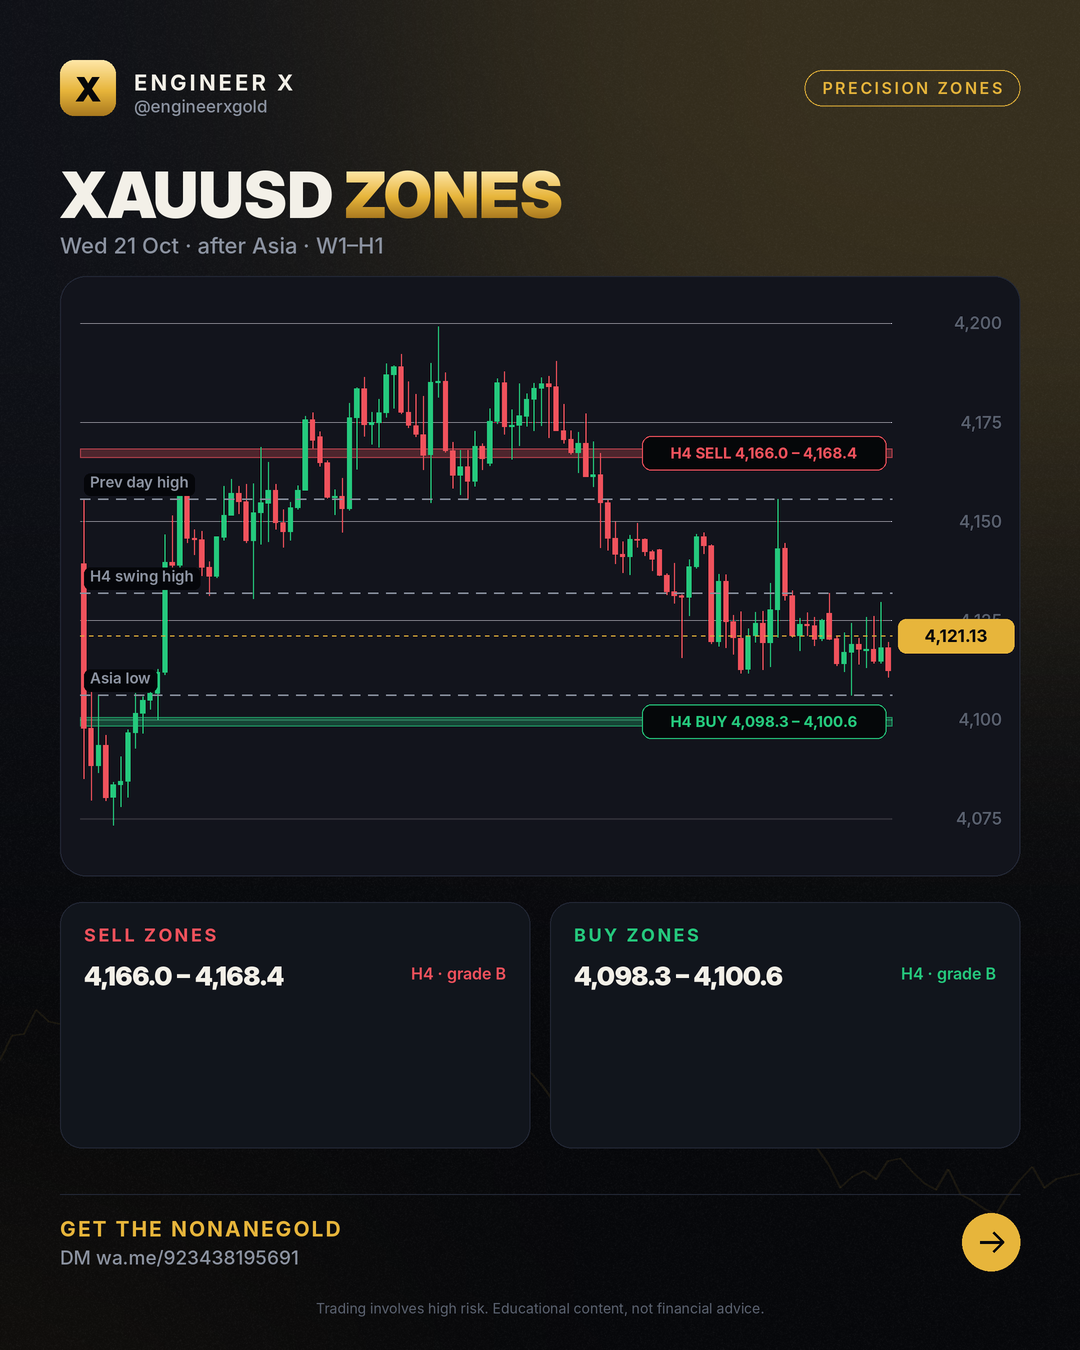
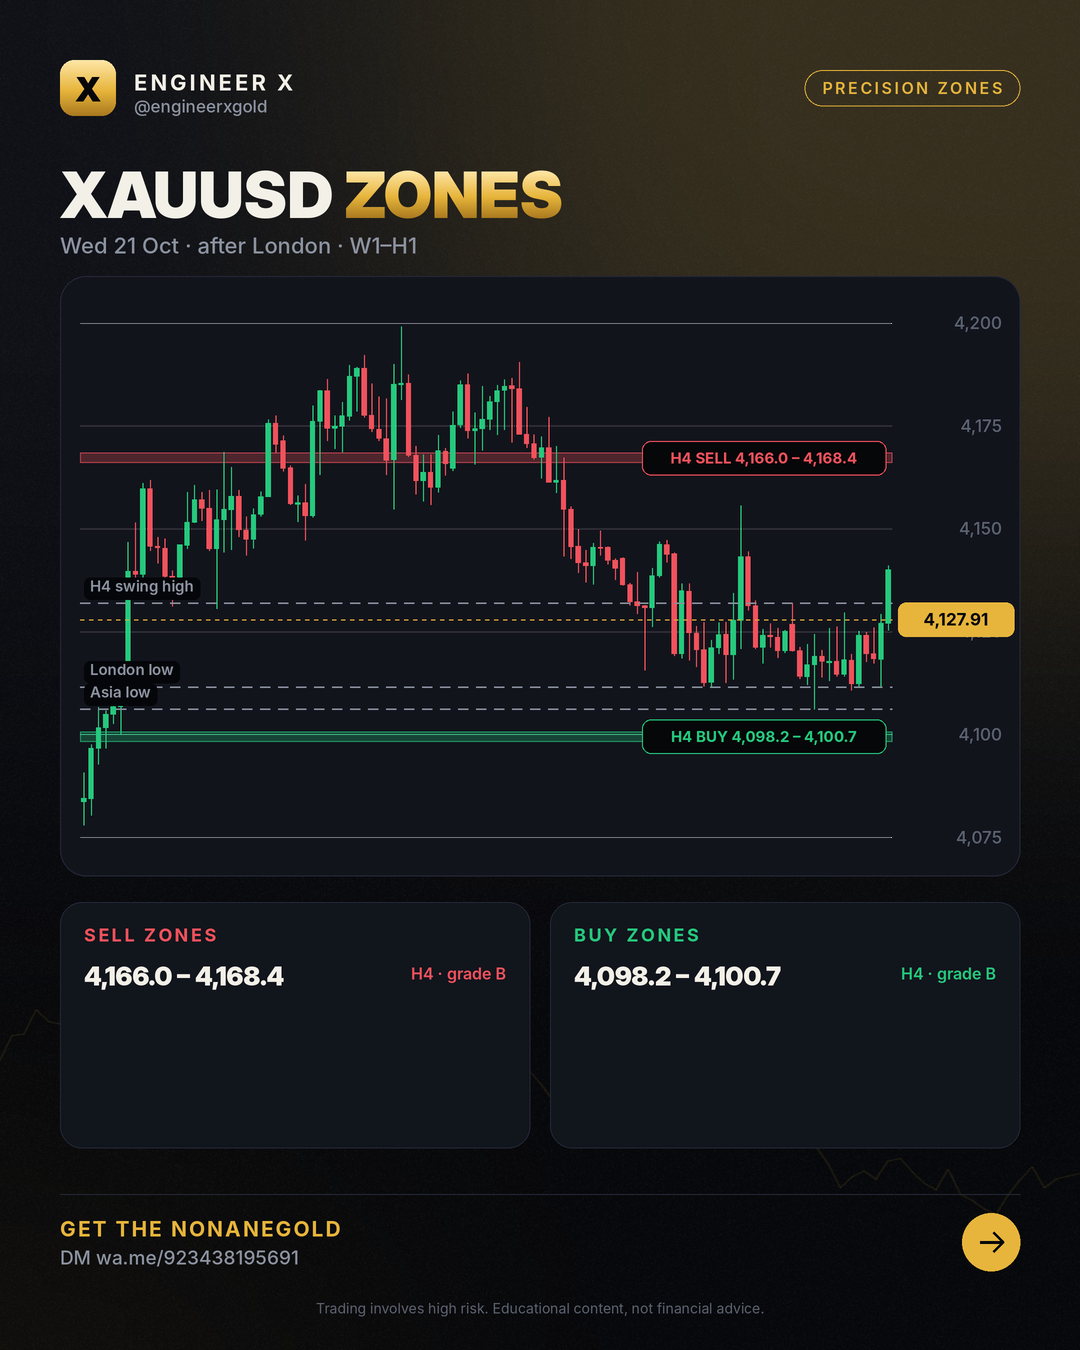
zones 2026-10-21 Wed 21 Oct · after London · W1–H1

diff --git a/zones/2026-10-21/index.html b/zones/2026-10-21/index.html
@@ -4,7 +4,7 @@
 <meta charset="utf-8">
 <meta name="viewport" content="width=device-width,initial-scale=1">
 <title>Gold Forecast – 21 Oct 2026 (W1–H1)</title>
-<meta name="description" content="XAUUSD buy and sell zones for 2026-10-21: tested W1, D1, H4 and H1 zones with invalidation levels, updated after the Asian, London and New York sessions. Price 4,121.13.">
+<meta name="description" content="XAUUSD buy and sell zones for 2026-10-21: tested W1, D1, H4 and H1 zones with invalidation levels, updated after the Asian, London and New York sessions. Price 4,127.91.">
 <meta name="robots" content="index,follow,max-image-preview:large,max-snippet:-1,max-video-preview:-1">
 <meta name="author" content="Engr. M Ahmad Mehmood">
 <link rel="canonical" href="https://engineerxgold.github.io/zones/2026-10-21/">
@@ -12,7 +12,7 @@
 <link rel="apple-touch-icon" href="../../img/logo.png">
 <meta property="og:site_name" content="Engineer X">
 <meta property="og:title" content="Gold Forecast – 21 Oct 2026 (W1–H1)">
-<meta property="og:description" content="XAUUSD buy and sell zones for 2026-10-21: tested W1, D1, H4 and H1 zones with invalidation levels, updated after the Asian, London and New York sessions. Price 4,121.13.">
+<meta property="og:description" content="XAUUSD buy and sell zones for 2026-10-21: tested W1, D1, H4 and H1 zones with invalidation levels, updated after the Asian, London and New York sessions. Price 4,127.91.">
 <meta property="og:type" content="article">
 <meta property="og:url" content="https://engineerxgold.github.io/zones/2026-10-21/">
 <meta property="og:image" content="https://engineerxgold.github.io/zones/img/2026-10-21.png">
@@ -22,7 +22,7 @@
 <meta property="og:locale" content="en_US">
 <meta name="twitter:card" content="summary_large_image">
 <meta name="twitter:title" content="Gold Forecast – 21 Oct 2026 (W1–H1)">
-<meta name="twitter:description" content="XAUUSD buy and sell zones for 2026-10-21: tested W1, D1, H4 and H1 zones with invalidation levels, updated after the Asian, London and New York sessions. Price 4,121.13.">
+<meta name="twitter:description" content="XAUUSD buy and sell zones for 2026-10-21: tested W1, D1, H4 and H1 zones with invalidation levels, updated after the Asian, London and New York sessions. Price 4,127.91.">
 <meta name="twitter:image" content="https://engineerxgold.github.io/zones/img/2026-10-21.png">
 <meta name="twitter:image:alt" content="Gold Forecast – 21 Oct 2026 (W1–H1)">
 
@@ -32,7 +32,7 @@
 <link rel="preconnect" href="https://fonts.googleapis.com">
 <link rel="preconnect" href="https://fonts.gstatic.com" crossorigin>
 <link href="https://fonts.googleapis.com/css2?family=Inter:wght@400;500;600;800;900&display=swap" rel="stylesheet">
-<script type="application/ld+json">{"@context": "https://schema.org", "@type": "Organization", "@id": "https://engineerxgold.github.io/#organization", "name": "Engineer X", "url": "https://engineerxgold.github.io/", "logo": {"@type": "ImageObject", "url": "https://engineerxgold.github.io/img/logo.png", "width": 512, "height": 512}, "sameAs": ["https://t.me/engineerxgold"]}</script><script type="application/ld+json">{"@context": "https://schema.org", "@type": "Article", "headline": "Gold Forecast – 21 Oct 2026 (W1–H1)", "datePublished": "2026-10-21T08:00:00+05:00", "dateModified": "2026-10-21T12:41:20+05:00", "author": {"@type": "Person", "@id": "https://engineerxgold.github.io/about/#author", "name": "Engr. M Ahmad Mehmood", "url": "https://engineerxgold.github.io/about/", "jobTitle": "MQL5 Expert Advisor developer and gold market analyst", "worksFor": {"@id": "https://engineerxgold.github.io/#organization"}}, "publisher": {"@id": "https://engineerxgold.github.io/#organization"}, "image": "https://engineerxgold.github.io/zones/img/2026-10-21.png", "mainEntityOfPage": "https://engineerxgold.github.io/zones/2026-10-21/"}</script>
+<script type="application/ld+json">{"@context": "https://schema.org", "@type": "Organization", "@id": "https://engineerxgold.github.io/#organization", "name": "Engineer X", "url": "https://engineerxgold.github.io/", "logo": {"@type": "ImageObject", "url": "https://engineerxgold.github.io/img/logo.png", "width": 512, "height": 512}, "sameAs": ["https://t.me/engineerxgold"]}</script><script type="application/ld+json">{"@context": "https://schema.org", "@type": "Article", "headline": "Gold Forecast – 21 Oct 2026 (W1–H1)", "datePublished": "2026-10-21T08:00:00+05:00", "dateModified": "2026-10-21T17:58:16+05:00", "author": {"@type": "Person", "@id": "https://engineerxgold.github.io/about/#author", "name": "Engr. M Ahmad Mehmood", "url": "https://engineerxgold.github.io/about/", "jobTitle": "MQL5 Expert Advisor developer and gold market analyst", "worksFor": {"@id": "https://engineerxgold.github.io/#organization"}}, "publisher": {"@id": "https://engineerxgold.github.io/#organization"}, "image": "https://engineerxgold.github.io/zones/img/2026-10-21.png", "mainEntityOfPage": "https://engineerxgold.github.io/zones/2026-10-21/"}</script>
 
 <style>
 :root{--gold:#E7B53B;--gold-hi:#FFE7A8;--bg:#07080B;--bg2:#0E1016;--panel:#12151D;--line:#232836;--green:#25C97D;--red:#F0525C;--text:#F3F0E8;--muted:#8C93A1}
@@ -101,7 +101,7 @@ footer .fl a{color:var(--muted);margin-right:16px}
 <div class="wrap">
 <nav><a class="logo" href="../../"><b>X</b>Engineer X</a>
 <div class="links"><a href="../../zones/">Daily Zones</a><a href="../../blog/">Learn</a><a href="../../ea/">Gold EA</a><a href="../../about/">About</a><a class="cta" href="https://wa.me/923438195691">Get the EA</a></div></nav>
-<article><p class="crumbs"><a href="../../">Home</a> › <a href="../">Zones</a> › 2026-10-21</p><h1>Gold Forecast – 21 Oct 2026 (W1–H1)</h1><p class="byline">Wed 21 Oct · after Asia · W1–H1 · by Engr. M Ahmad Mehmood</p><img src="../img/2026-10-21.png" alt="XAUUSD zone map 2026-10-21" width="1080" height="1350" loading="eager"><h2>Zones</h2><div style="overflow-x:auto"><table style="width:100%;border-collapse:collapse;font-size:15px"><tr><th align=left>Zone</th><th align=left>Price band</th><th>Grade</th><th align=left>Invalid</th><th align=left>Why</th></tr><tr><td>H4 sell</td><td><b>4,166.00 – 4,168.38</b></td><td>B</td><td>above 4,179.09</td><td>OTE 0.705 of the H4 leg 4190.42 → 4111.68 (S35; 0.62–0.79 = 4160.50–4173.88)</td></tr><tr><td>H4 buy</td><td><b>4,098.26 – 4,100.64</b></td><td>B</td><td>below 4,087.55</td><td>OTE 0.705 of the H4 leg 4073.37 → 4161.78 (S35; 0.62–0.79 = 4106.97–4091.94)</td></tr></table></div><h2>How to read this map</h2><p>Bands are where price is expected to react; they are not entries. Trading beyond the invalidation price ends the zone; each zone counts once (first touch). Highs and lows listed as liquidity are targets: on 10 years of gold price ran through them more often than through random levels.</p><div class="ctabox"><h3>🤖 Trade the zones with the NonaneGold</h3><p>Free signals group access + setup help Message us and we will help you set it up.</p><div class="btns"><a class="btn gold" href="https://wa.me/923438195691">Get the EA on Telegram</a><a class="btn ghost" href="../../ea/">About the EA</a></div></div></article>
+<article><p class="crumbs"><a href="../../">Home</a> › <a href="../">Zones</a> › 2026-10-21</p><h1>Gold Forecast – 21 Oct 2026 (W1–H1)</h1><p class="byline">Wed 21 Oct · after London · W1–H1 · by Engr. M Ahmad Mehmood</p><img src="../img/2026-10-21.png" alt="XAUUSD zone map 2026-10-21" width="1080" height="1350" loading="eager"><h2>Zones</h2><div style="overflow-x:auto"><table style="width:100%;border-collapse:collapse;font-size:15px"><tr><th align=left>Zone</th><th align=left>Price band</th><th>Grade</th><th align=left>Invalid</th><th align=left>Why</th></tr><tr><td>H4 sell</td><td><b>4,165.98 – 4,168.41</b></td><td>B</td><td>above 4,179.36</td><td>OTE 0.705 of the H4 leg 4190.42 → 4111.68 (S35; 0.62–0.79 = 4160.50–4173.88)</td></tr><tr><td>H4 buy</td><td><b>4,098.23 – 4,100.67</b></td><td>B</td><td>below 4,087.28</td><td>OTE 0.705 of the H4 leg 4073.37 → 4161.78 (S35; 0.62–0.79 = 4106.97–4091.94)</td></tr></table></div><h2>How to read this map</h2><p>Bands are where price is expected to react; they are not entries. Trading beyond the invalidation price ends the zone; each zone counts once (first touch). Highs and lows listed as liquidity are targets: on 10 years of gold price ran through them more often than through random levels.</p><div class="ctabox"><h3>🤖 Trade the zones with the NonaneGold</h3><p>Free signals group access + setup help Message us and we will help you set it up.</p><div class="btns"><a class="btn gold" href="https://wa.me/923438195691">Get the EA on Telegram</a><a class="btn ghost" href="../../ea/">About the EA</a></div></div></article>
 <footer>
 <div class="warn"><b>Risk warning:</b> Trading gold, forex and CFDs carries a high risk of losing money and is not suitable for everyone. Past results do not guarantee future results. Everything on this site is educational and not financial advice. We are an introducing partner of our broker and may earn a commission on accounts opened through our link.</div>
 <p class="fl" style="margin-top:18px"><a href="../../about/">About &amp; methodology</a><a href="../../privacy.html">Privacy</a><a href="../../terms.html">Terms &amp; risk disclosure</a><a href="../../feed.xml">RSS</a><a href="https://t.me/engineerxgold">Telegram</a></p>

diff --git a/zones/index.html b/zones/index.html
@@ -4,7 +4,7 @@
 <meta charset="utf-8">
 <meta name="viewport" content="width=device-width,initial-scale=1">
 <title>XAUUSD Zones Today – Buy &amp; Sell Zones (H4, H1) | Engineer X</title>
-<meta name="description" content="XAUUSD buy and sell zones for 2026-10-21: tested W1, D1, H4 and H1 zones with invalidation levels, updated after the Asian, London and New York sessions. Price 4,121.13.">
+<meta name="description" content="XAUUSD buy and sell zones for 2026-10-21: tested W1, D1, H4 and H1 zones with invalidation levels, updated after the Asian, London and New York sessions. Price 4,127.91.">
 <meta name="robots" content="index,follow,max-image-preview:large,max-snippet:-1,max-video-preview:-1">
 <meta name="author" content="Engr. M Ahmad Mehmood">
 <link rel="canonical" href="https://engineerxgold.github.io/zones/">
@@ -12,7 +12,7 @@
 <link rel="apple-touch-icon" href="../img/logo.png">
 <meta property="og:site_name" content="Engineer X">
 <meta property="og:title" content="XAUUSD Zones Today – Buy &amp; Sell Zones (H4, H1) | Engineer X">
-<meta property="og:description" content="XAUUSD buy and sell zones for 2026-10-21: tested W1, D1, H4 and H1 zones with invalidation levels, updated after the Asian, London and New York sessions. Price 4,121.13.">
+<meta property="og:description" content="XAUUSD buy and sell zones for 2026-10-21: tested W1, D1, H4 and H1 zones with invalidation levels, updated after the Asian, London and New York sessions. Price 4,127.91.">
 <meta property="og:type" content="website">
 <meta property="og:url" content="https://engineerxgold.github.io/zones/">
 <meta property="og:image" content="https://engineerxgold.github.io/zones/img/2026-10-21.png">
@@ -22,7 +22,7 @@
 <meta property="og:locale" content="en_US">
 <meta name="twitter:card" content="summary_large_image">
 <meta name="twitter:title" content="XAUUSD Zones Today – Buy &amp; Sell Zones (H4, H1) | Engineer X">
-<meta name="twitter:description" content="XAUUSD buy and sell zones for 2026-10-21: tested W1, D1, H4 and H1 zones with invalidation levels, updated after the Asian, London and New York sessions. Price 4,121.13.">
+<meta name="twitter:description" content="XAUUSD buy and sell zones for 2026-10-21: tested W1, D1, H4 and H1 zones with invalidation levels, updated after the Asian, London and New York sessions. Price 4,127.91.">
 <meta name="twitter:image" content="https://engineerxgold.github.io/zones/img/2026-10-21.png">
 <meta name="twitter:image:alt" content="XAUUSD Zones Today – Buy &amp; Sell Zones (H4, H1) | Engineer X">
 
@@ -101,7 +101,7 @@ footer .fl a{color:var(--muted);margin-right:16px}
 <div class="wrap">
 <nav><a class="logo" href="../"><b>X</b>Engineer X</a>
 <div class="links"><a href="../zones/">Daily Zones</a><a href="../blog/">Learn</a><a href="../ea/">Gold EA</a><a href="../about/">About</a><a class="cta" href="https://wa.me/923438195691">Get the EA</a></div></nav>
-<section class="hero"><span class="chip">Updated Wed 21 Oct · after Asia · W1–H1</span><h1>XAUUSD <span class="gold">precision zones</span></h1><p>XAUUSD buy and sell zones for 2026-10-21: tested W1, D1, H4 and H1 zones with invalidation levels, updated after the Asian, London and New York sessions. Price 4,121.13.</p></section><img src="img/2026-10-21.png" alt="Latest XAUUSD zone map" width="1080" height="1350"><section><h2>Current zones</h2><div style="overflow-x:auto"><table style="width:100%;border-collapse:collapse;font-size:15px"><tr><th align=left>Zone</th><th align=left>Price band</th><th>Grade</th><th align=left>Invalid</th><th align=left>Why</th></tr><tr><td>H4 sell</td><td><b>4,166.00 – 4,168.38</b></td><td>B</td><td>above 4,179.09</td><td>OTE 0.705 of the H4 leg 4190.42 → 4111.68 (S35; 0.62–0.79 = 4160.50–4173.88)</td></tr><tr><td>H4 buy</td><td><b>4,098.26 – 4,100.64</b></td><td>B</td><td>below 4,087.55</td><td>OTE 0.705 of the H4 leg 4073.37 → 4161.78 (S35; 0.62–0.79 = 4106.97–4091.94)</td></tr></table></div></section><section><h2>Honest scorecard</h2><div class="grid"><div class="card"><div class="n">138</div><p>zones published (30 days)</p></div><div class="card"><div class="n">59</div><p>held (moved 1 hourly ATR away)</p></div><div class="card"><div class="n">6</div><p>broke (traded beyond the invalidation)</p></div><div class="card"><div class="n">91%</div><p>hold rate of decided zones</p></div></div></section><div class="ctabox"><h3>🤖 Trade the zones with the NonaneGold</h3><p>Free signals group access + setup help Message us and we will help you set it up.</p><div class="btns"><a class="btn gold" href="https://wa.me/923438195691">Get the EA on Telegram</a><a class="btn ghost" href="../ea/">About the EA</a></div></div><section><h2>Archive</h2><div class="grid posts"><a class="card" href="2026-10-21/"><span class="date">2026-10-21</span><h3>XAUUSD zones 2026-10-21</h3></a><a class="card" href="2026-10-20/"><span class="date">2026-10-20</span><h3>XAUUSD zones 2026-10-20</h3></a><a class="card" href="2026-10-19/"><span class="date">2026-10-19</span><h3>XAUUSD zones 2026-10-19</h3></a><a class="card" href="2026-10-16/"><span class="date">2026-10-16</span><h3>XAUUSD zones 2026-10-16</h3></a><a class="card" href="2026-10-15/"><span class="date">2026-10-15</span><h3>XAUUSD zones 2026-10-15</h3></a><a class="card" href="2026-10-14/"><span class="date">2026-10-14</span><h3>XAUUSD zones 2026-10-14</h3></a><a class="card" href="2026-10-13/"><span class="date">2026-10-13</span><h3>XAUUSD zones 2026-10-13</h3></a></div></section>
+<section class="hero"><span class="chip">Updated Wed 21 Oct · after London · W1–H1</span><h1>XAUUSD <span class="gold">precision zones</span></h1><p>XAUUSD buy and sell zones for 2026-10-21: tested W1, D1, H4 and H1 zones with invalidation levels, updated after the Asian, London and New York sessions. Price 4,127.91.</p></section><img src="img/2026-10-21.png" alt="Latest XAUUSD zone map" width="1080" height="1350"><section><h2>Current zones</h2><div style="overflow-x:auto"><table style="width:100%;border-collapse:collapse;font-size:15px"><tr><th align=left>Zone</th><th align=left>Price band</th><th>Grade</th><th align=left>Invalid</th><th align=left>Why</th></tr><tr><td>H4 sell</td><td><b>4,165.98 – 4,168.41</b></td><td>B</td><td>above 4,179.36</td><td>OTE 0.705 of the H4 leg 4190.42 → 4111.68 (S35; 0.62–0.79 = 4160.50–4173.88)</td></tr><tr><td>H4 buy</td><td><b>4,098.23 – 4,100.67</b></td><td>B</td><td>below 4,087.28</td><td>OTE 0.705 of the H4 leg 4073.37 → 4161.78 (S35; 0.62–0.79 = 4106.97–4091.94)</td></tr></table></div></section><section><h2>Honest scorecard</h2><div class="grid"><div class="card"><div class="n">138</div><p>zones published (30 days)</p></div><div class="card"><div class="n">59</div><p>held (moved 1 hourly ATR away)</p></div><div class="card"><div class="n">6</div><p>broke (traded beyond the invalidation)</p></div><div class="card"><div class="n">91%</div><p>hold rate of decided zones</p></div></div></section><div class="ctabox"><h3>🤖 Trade the zones with the NonaneGold</h3><p>Free signals group access + setup help Message us and we will help you set it up.</p><div class="btns"><a class="btn gold" href="https://wa.me/923438195691">Get the EA on Telegram</a><a class="btn ghost" href="../ea/">About the EA</a></div></div><section><h2>Archive</h2><div class="grid posts"><a class="card" href="2026-10-21/"><span class="date">2026-10-21</span><h3>XAUUSD zones 2026-10-21</h3></a><a class="card" href="2026-10-20/"><span class="date">2026-10-20</span><h3>XAUUSD zones 2026-10-20</h3></a><a class="card" href="2026-10-19/"><span class="date">2026-10-19</span><h3>XAUUSD zones 2026-10-19</h3></a><a class="card" href="2026-10-16/"><span class="date">2026-10-16</span><h3>XAUUSD zones 2026-10-16</h3></a><a class="card" href="2026-10-15/"><span class="date">2026-10-15</span><h3>XAUUSD zones 2026-10-15</h3></a><a class="card" href="2026-10-14/"><span class="date">2026-10-14</span><h3>XAUUSD zones 2026-10-14</h3></a><a class="card" href="2026-10-13/"><span class="date">2026-10-13</span><h3>XAUUSD zones 2026-10-13</h3></a></div></section>
 <footer>
 <div class="warn"><b>Risk warning:</b> Trading gold, forex and CFDs carries a high risk of losing money and is not suitable for everyone. Past results do not guarantee future results. Everything on this site is educational and not financial advice. We are an introducing partner of our broker and may earn a commission on accounts opened through our link.</div>
 <p class="fl" style="margin-top:18px"><a href="../about/">About &amp; methodology</a><a href="../privacy.html">Privacy</a><a href="../terms.html">Terms &amp; risk disclosure</a><a href="../feed.xml">RSS</a><a href="https://t.me/engineerxgold">Telegram</a></p>

diff --git a/index.html b/index.html
@@ -101,7 +101,7 @@ footer .fl a{color:var(--muted);margin-right:16px}
 <div class="wrap">
 <nav><a class="logo" href="./"><b>X</b>Engineer X</a>
 <div class="links"><a href="./zones/">Daily Zones</a><a href="./blog/">Learn</a><a href="./ea/">Gold EA</a><a href="./about/">About</a><a class="cta" href="https://wa.me/923438195691">Get the EA</a></div></nav>
-<section class="hero"><span class="chip">XAUUSD · W1–H1 · every session</span><h1>Gold <span class="gold">precision zones</span>, updated after every session</h1><p>Tested buy and sell zones with clear invalidation, a scorecard of every result, and the NonaneGold for traders who want it automated.</p><div class="btns"><a class="btn gold" href="zones/">See today's zones</a><a class="btn ghost" href="https://wa.me/923438195691">Get the EA</a></div></section><section><h2>Latest map Wed 21 Oct · after Asia · W1–H1</h2><img src="zones/img/2026-10-21.png" alt="Latest XAUUSD zones" width="1080" height="1350"></section><div class="ctabox"><h3>🤖 Trade the zones with the NonaneGold</h3><p>Free signals group access + setup help Message us and we will help you set it up.</p><div class="btns"><a class="btn gold" href="https://wa.me/923438195691">Get the EA on Telegram</a><a class="btn ghost" href="ea/">About the EA</a></div></div><section><h2>Learn</h2><div class="grid posts"><a class="card" href="blog/gold-forecast-critical-h4-bearish-zones-liquidity/"><span class="date">2026-10-21</span><h3>Gold Forecast: Critical H4 Bearish Zones &amp; Liquidity</h3></a><a class="card" href="blog/gold-supply-and-demand-zones-h4-w1-map-analysis/"><span class="date">2026-10-20</span><h3>Gold Supply and Demand Zones: H4 &amp; W1 Map Analysis</h3></a><a class="card" href="blog/gold-trading-reading-h4-trend-liquidity-zones/"><span class="date">2026-10-19</span><h3>Gold Trading: Reading H4 Trend &amp; Liquidity Zones</h3></a><a class="card" href="blog/gold-support-resistance-live-technical-map-zones/"><span class="date">2026-10-18</span><h3>Gold Support Resistance: Live Technical Map &amp; Zones</h3></a><a class="card" href="blog/gold-supply-and-demand-zones-live-trading-map-guide/"><span class="date">2026-10-17</span><h3>Gold Supply and Demand Zones: Live Trading Map &amp; Guide</h3></a><a class="card" href="blog/gold-trading-h4-trend-and-live-market-zones-map/"><span class="date">2026-10-16</span><h3>Gold Trading: H4 Trend and Live Market Zones Map</h3></a></div></section><section><h2>FAQ</h2><details><summary>What is a precision zone?</summary><p>A point of interest from a trading book (OTE 0.705, balanced price range, weekly close level, daily order block) that held better than random levels on 10 years of gold. Each zone has an invalidation price.</p></details><details><summary>How often are the zones updated?</summary><p>A daily plan at the Asian open, then after the Asian, London and New York sessions.</p></details><details><summary>Are these trade signals?</summary><p>No. Zones are areas to watch. Wait for your own confirmation and manage risk.</p></details><details><summary>How do I get the Gold EA?</summary><p>Message us on Telegram or WhatsApp; we answer and help with the setup.</p></details></section>
+<section class="hero"><span class="chip">XAUUSD · W1–H1 · every session</span><h1>Gold <span class="gold">precision zones</span>, updated after every session</h1><p>Tested buy and sell zones with clear invalidation, a scorecard of every result, and the NonaneGold for traders who want it automated.</p><div class="btns"><a class="btn gold" href="zones/">See today's zones</a><a class="btn ghost" href="https://wa.me/923438195691">Get the EA</a></div></section><section><h2>Latest map Wed 21 Oct · after London · W1–H1</h2><img src="zones/img/2026-10-21.png" alt="Latest XAUUSD zones" width="1080" height="1350"></section><div class="ctabox"><h3>🤖 Trade the zones with the NonaneGold</h3><p>Free signals group access + setup help Message us and we will help you set it up.</p><div class="btns"><a class="btn gold" href="https://wa.me/923438195691">Get the EA on Telegram</a><a class="btn ghost" href="ea/">About the EA</a></div></div><section><h2>Learn</h2><div class="grid posts"><a class="card" href="blog/gold-forecast-critical-h4-bearish-zones-liquidity/"><span class="date">2026-10-21</span><h3>Gold Forecast: Critical H4 Bearish Zones &amp; Liquidity</h3></a><a class="card" href="blog/gold-supply-and-demand-zones-h4-w1-map-analysis/"><span class="date">2026-10-20</span><h3>Gold Supply and Demand Zones: H4 &amp; W1 Map Analysis</h3></a><a class="card" href="blog/gold-trading-reading-h4-trend-liquidity-zones/"><span class="date">2026-10-19</span><h3>Gold Trading: Reading H4 Trend &amp; Liquidity Zones</h3></a><a class="card" href="blog/gold-support-resistance-live-technical-map-zones/"><span class="date">2026-10-18</span><h3>Gold Support Resistance: Live Technical Map &amp; Zones</h3></a><a class="card" href="blog/gold-supply-and-demand-zones-live-trading-map-guide/"><span class="date">2026-10-17</span><h3>Gold Supply and Demand Zones: Live Trading Map &amp; Guide</h3></a><a class="card" href="blog/gold-trading-h4-trend-and-live-market-zones-map/"><span class="date">2026-10-16</span><h3>Gold Trading: H4 Trend and Live Market Zones Map</h3></a></div></section><section><h2>FAQ</h2><details><summary>What is a precision zone?</summary><p>A point of interest from a trading book (OTE 0.705, balanced price range, weekly close level, daily order block) that held better than random levels on 10 years of gold. Each zone has an invalidation price.</p></details><details><summary>How often are the zones updated?</summary><p>A daily plan at the Asian open, then after the Asian, London and New York sessions.</p></details><details><summary>Are these trade signals?</summary><p>No. Zones are areas to watch. Wait for your own confirmation and manage risk.</p></details><details><summary>How do I get the Gold EA?</summary><p>Message us on Telegram or WhatsApp; we answer and help with the setup.</p></details></section>
 <footer>
 <div class="warn"><b>Risk warning:</b> Trading gold, forex and CFDs carries a high risk of losing money and is not suitable for everyone. Past results do not guarantee future results. Everything on this site is educational and not financial advice. We are an introducing partner of our broker and may earn a commission on accounts opened through our link.</div>
 <p class="fl" style="margin-top:18px"><a href="./about/">About &amp; methodology</a><a href="./privacy.html">Privacy</a><a href="./terms.html">Terms &amp; risk disclosure</a><a href="./feed.xml">RSS</a><a href="https://t.me/engineerxgold">Telegram</a></p>
